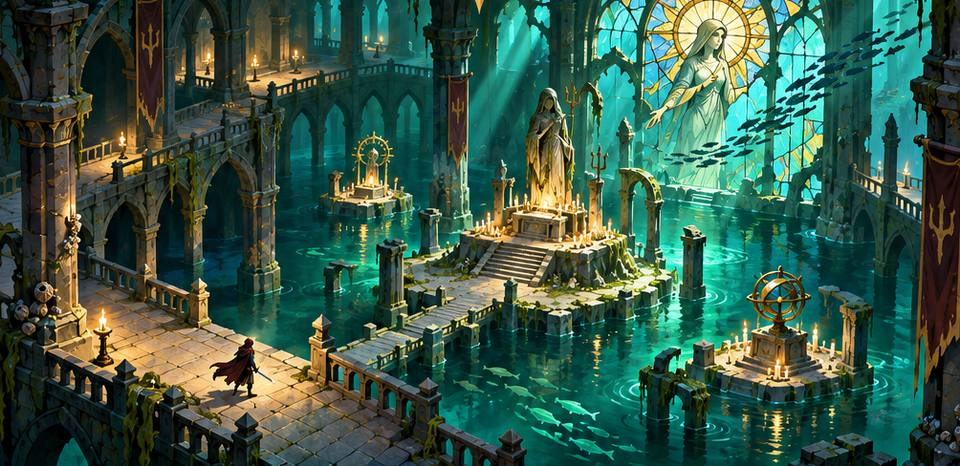
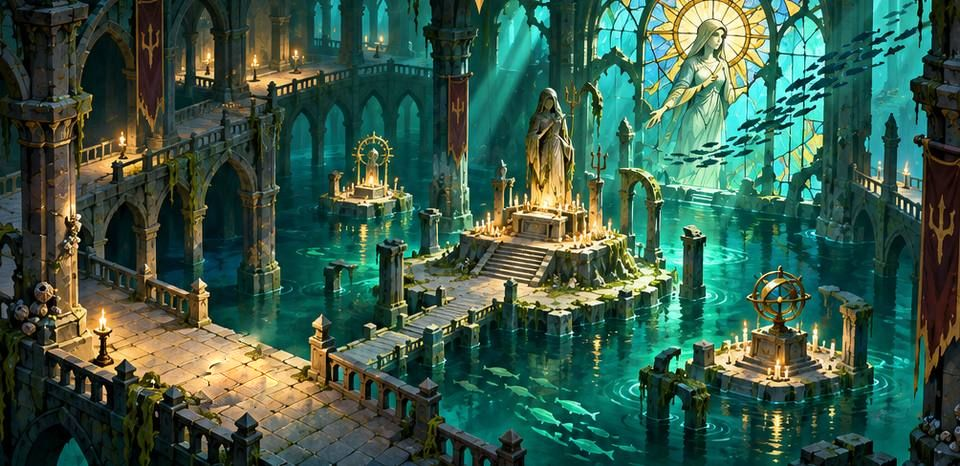
Capítulos 4 e 5: cavaleiro removido dos fundos, Mariposa redesenhada e golpes novos
- Fundos do Jardim e da Catedral sem o cavaleiro pintado
- Mariposa do Eclipse: asas recortadas com crescentes dourados, lua crescente atrás, chifre de lua
- Mariposa ganha a Revoada: mariposas pequenas que perseguem o herói
- Jardineiro de Órbita: Canteiro (anel de flores com uma saída), Sementes (flores lançadas) e Órbita (pedras em espiral)
- Coroinha de Cracas: Salto do Sino (cai em cima de você), Badalada (três ondas) e Cracas (leques de tiros)
- Lebre solta as pedras em órbita ao parar; Caracol alterna anel de maré e espiral de conchas

Claude-Session: https://claude.ai/code/session_01CUuYPkg2eoYMEA6KGEoqju

Changed region(s): [[0.1875, 0.721, 0.3125, 0.8712]]

diff --git a/index.html b/index.html
@@ -820,12 +820,12 @@ Object.assign(ENEMIES,{
   cardume:{n:'Cardume de Velas',cat:'Comum',type:'organico',hp:42,spd:122,dmg:8,r:10,xp:6,coin:2,col:'#ffcf7a',ai:'school',ch:4,desc:'Peixes com chama na cabeça que nadam em bando, em ondas. Fracos sozinhos: ataques em área limpam o cardume.'}
 });
 SKIN_NAMES.push({rast:'Broto Lunar',sent:'Lírio Arqueiro',pulsar:'Semente Estelar',espec:'Pétala Fantasma'},{rast:'Cracudo',sent:'Gárgula Afogada',pulsar:'Bolha de Maré',espec:'Coroinha Afogado'});
-MINIS.push({n:'Jardineiro de Órbita',type:'blindado',col:'#d8c9a8',mx:'bloom'},{n:'Coroinha de Cracas',type:'blindado',col:'#c9a25a',mx:'bell'});
+MINIS.push({n:'Jardineiro de Órbita',type:'blindado',col:'#d8c9a8',ai:'gardener'},{n:'Coroinha de Cracas',type:'blindado',col:'#c9a25a',ai:'bellboy'});
 Object.assign(BOSSES,{
   mariposa:{name:'Mariposa do Eclipse',type:'espectral',hp:6400,r:34,spd:58,col:'#b48cff',col2:'#ffe9b0',contact:18,
-    phases:[{seq:['luas','burst','ring'],gap:2.1},{seq:['po','luas','spiral','summon'],gap:1.8},{seq:['luas','po','pull','ring'],gap:1.55}],
+    phases:[{seq:['luas','revoada','ring'],gap:2.1},{seq:['po','luas','revoada','summon'],gap:1.8},{seq:['luas','po','revoada','pull'],gap:1.55}],
     desc:'Guardiã do Jardim da Lua Oca. As asas são feitas da própria lua rachada: ela faz chover cacos de lua e espalha pó de escamas pelo chão.',
-    tips:'Os círculos claros marcam onde os cacos caem, em sequência. Saia das nuvens de pó. Depois da chuva de luas ela pousa e fica exposta.'},
+    tips:'Os círculos claros marcam onde os cacos caem, em sequência. As mariposas pequenas seguem você: corra em curva ou use a guarda. Depois da chuva de luas ela pousa e fica exposta.'},
   viuva:{name:'Viúva da Âncora',type:'blindado',hp:7400,r:34,spd:52,col:'#7fd8c0',col2:'#d9c27a',contact:20,
     phases:[{seq:['ancora','burst','ring'],gap:2.2},{seq:['mare','ancora','spiral'],gap:1.9},{seq:['ancora','mare','pull','summon'],gap:1.6}],
     desc:'Estátua viva da Catedral das Marés, presa a uma âncora enorme. Lança a âncora, arrasta de volta pela corrente e chama ondas que varrem a nave.',
@@ -1672,22 +1672,42 @@ function rigCoroinha(){
   return{root,k:1.7,pose(e,t){const r=this.root,sl=e.st==='slam'||e.tele>0;r.legs.forEach((l,i)=>l.r[0]=Math.sin(e.ph*3+i)*.4*e.v);r.bell.t[1]=1.55+(sl?.15:0);r.body.t[1]=.45+Math.abs(Math.sin(e.ph*3))*.04*e.v}}
 }
 /* --- Mariposa do Eclipse (chefe) --- */
+function mPoly(key,pts,z=0){return MESH[key]||finish(key,pts.map(([x,y])=>[x,y,z]),[pts.map((_,i)=>i)],false,true)}
+const MOTH={
+  up:[[0,0],[.3,.32],[.72,.72],[1.18,.98],[1.5,.92],[1.56,.66],[1.38,.36],[1.02,.1],[.55,-.06]],
+  lo:[[0,0],[.5,-.08],[.92,-.3],[1.02,-.6],[.82,-.86],[.62,-1.22],[.44,-.88],[.16,-.4]],
+  cres:(n,R,r,dx)=>{const o=[];for(let i=0;i<=n;i++){const a=Math.PI*.35+i/n*Math.PI*1.3;o.push([Math.cos(a)*R,Math.sin(a)*R])}for(let i=n;i>=0;i--){const a=Math.PI*.35+i/n*Math.PI*1.3;o.push([dx+Math.cos(a)*r,Math.sin(a)*r])}return o}
+};
 function rigMariposa(){
-  const root=node([0,1.15,0]);
-  const moon=node([0,.45,-.75]);moon.parts.push(P3(mSph(12,9),'#efe4cc',[0,0,0],null,[.85,.85,.85],em({gr:.4})));
-  for(let i=0;i<6;i++){const q=i*1.1;moon.parts.push(P3(mSph(6,4),'#c9bca2',[Math.cos(q)*.45,Math.sin(q)*.45,.62],null,[.16,.16,.06]))}
+  const root=node([0,1.2,0]);
+  const sc=(P,k,ox=0,oy=0,mx=1)=>P.map(([x,y])=>[(x*k+ox)*mx,y*k+oy]);
+  // lua crescente atrás
+  const moon=node([0,.55,-.45]);moon.parts.push(P3(mPoly('mcres',MOTH.cres(14,1.25,1.02,.42)),'#f3e7c8',[0,0,0],null,null,em({gr:.4})));
+  for(const[x,y,r]of[[-.95,.3,.12],[-1.05,-.2,.09],[-.7,.75,.08],[-.75,-.65,.1]])moon.parts.push(P3(mSph(6,4),'#d8caa6',[x,y,.04],null,[r,r,.02]));
   root.kids.push(moon);
-  root.wings=[];for(const sd of[-1,1]){const w=node([sd*.12,.2,0]);
-    w.parts.push(P3(mSph(8,5),'#5a2f8a',[sd*.85,.3,0],[0,0,sd*.35],[.85,.62,.05]),P3(mSph(7,5),'#8a5ac8',[sd*.82,.34,.03],[0,0,sd*.35],[.58,.4,.03]),
-      P3(mSph(6,4),'#3a1f5c',[sd*.6,-.4,0],[0,0,-sd*.4],[.5,.4,.04]),P3(mSph(5,4),'#ffe9b0',[sd*1.0,.42,.06],null,[.14,.14,.02],em({gr:.16})),P3(mSph(5,4),'#ffe9b0',[sd*.62,-.42,.05],null,[.09,.09,.02],em({gr:.1})));
-    root.kids.push(w);root.wings.push(w)}
-  root.parts.push(P3(mSph(8,6),'#2a1a3a',[0,.1,0],null,[.16,.3,.16]),P3(mSph(7,5),'#3a2450',[0,-.28,0],null,[.13,.26,.13]));
-  for(let i=0;i<4;i++)root.parts.push(P3(mCyl(8),'#ffe9b0',[0,-.15-i*.1,0],null,[.135,.015,.135],em({gr:.03})));
-  const head=node([0,.45,.04]);head.parts.push(P3(mSph(7,5),'#e6d8ff',[0,0,0],null,[.13,.12,.12]));
-  for(const sd of[-1,1]){head.parts.push(P3(mSph(5,4),'#fff2b0',[sd*.06,.01,.1],null,[.04,.04,.02],em({gr:.12})));const an=node([sd*.05,.1,0]);an.r=[-.3,0,sd*.5];an.parts.push(P3(mTc(1,.3,4),'#d9c8ff',[0,0,0],null,[.015,.38,.015]),P3(mSph(4,3),'#fff2b0',[0,.38,0],null,[.03,.03,.03],em({gr:.08})));head.kids.push(an)}
-  const halo=node([0,.2,-.02],[],[],{spin:{ax:2,w:.6}});for(let i=0;i<9;i++){const q=Math.PI*.15+i/8*Math.PI*.7;halo.parts.push(P3(mBox(),'#ffe9b0',[Math.cos(q)*.2,Math.sin(q)*.2,0],[0,0,q+Math.PI/2],[.08,.025,.02],em({gr:.06})))}head.kids.push(halo);
-  root.kids.push(head);root.head=head;
-  return{root,k:1.6,pose(e,t){const r=this.root,f=Math.sin(t*3.2)*.35+(e.tele>0?.3:0);r.wings.forEach((w,i)=>{w.r[1]=(i?-1:1)*f;w.r[2]=(i?1:-1)*f*.25});r.t[1]=1.15+Math.sin(t*1.6)*.1;r.head.r[1]=Math.sin(t*.7)*.25}}
+  const wg=node([0,.2,0]);wg.r=[-.45,0,0];root.kids.push(wg);
+  root.wings=[];
+  for(const sd of[-1,1]){const w=node([sd*.08,0,0]);const M=sd<0?'L':'R';
+    w.parts.push(
+      P3(mPoly('mu'+M,sc(MOTH.up,1,0,0,sd)),'#3b1f63',[0,0,0]),
+      P3(mPoly('mu2'+M,sc(MOTH.up,.68,.18,.1,sd)),'#7a55c0',[0,0,.05]),
+      P3(mPoly('mu3'+M,sc(MOTH.up,.34,.5,.28,sd)),'#c9b0ff',[0,0,.09],null,null,em({gr:.05})),
+      P3(mPoly('ml'+M,sc(MOTH.lo,1,0,0,sd)),'#4a2a78',[0,0,-.01]),
+      P3(mPoly('ml2'+M,sc(MOTH.lo,.6,.14,-.12,sd)),'#9a7ad8',[0,0,.05]));
+    // crescentes dourados nas asas
+    w.parts.push(P3(mPoly('mc1'+M,MOTH.cres(8,.16,.12,.06).map(([x,y])=>[x*sd,y])),'#ffd98a',[sd*1.08,.66,.05],null,null,em({gr:.14})),
+      P3(mPoly('mc2'+M,MOTH.cres(8,.11,.08,.04).map(([x,y])=>[x*sd,y])),'#ffd98a',[sd*.62,-.6,.04],null,null,em({gr:.1})));
+    w.s=[1.25,1.25,1.25];
+    wg.kids.push(w);root.wings.push(w)}
+  // corpo peludo
+  root.parts.push(P3(mSph(8,6,.15),'#ece2ff',[0,.32,.06],null,[.2,.24,.18]),P3(mSph(7,5,.1),'#d9c8f5',[0,.2,.12],null,[.24,.1,.12]));
+  for(let i=0;i<5;i++)root.parts.push(P3(mSph(7,5),i%2?'#5a3a8a':'#e6d8ff',[0,.02-i*.13,.04],null,[.15-i*.018,.08,.13-i*.015]));
+  const head=node([0,.6,.12]);head.parts.push(P3(mSph(7,5),'#f3ecff',[0,0,0],null,[.13,.12,.12]));
+  for(const sd of[-1,1]){head.parts.push(P3(mSph(5,4),'#ffe9b0',[sd*.065,.01,.09],null,[.045,.05,.03],em({gr:.16})));
+    const an=node([sd*.05,.1,0]);an.r=[-.2,0,sd*.6];an.parts.push(P3(mTc(1,.3,4),'#e8d6a8',[0,0,0],null,[.015,.42,.015]));for(let k=1;k<5;k++)an.parts.push(P3(mBox(),'#e8d6a8',[sd*.03,k*.08,0],[0,0,sd*.8],[.07,.01,.01]));head.kids.push(an)}
+  head.parts.push(P3(mPoly('mhorn',MOTH.cres(10,.24,.19,.08).map(([x,y])=>[y,-x])),'#ffd98a',[0,.2,-.02],null,null,em({gr:.18})));
+  root.kids.push(head);root.head=head;root.wg=wg;
+  return{root,k:1.55,pose(e,t){const r=this.root,f=.35+Math.sin(t*3.4)*.32+(e.tele>0?.25:0);r.wings.forEach((w,i)=>{const sd=i?1:-1;w.r[1]=-sd*f;w.r[2]=sd*Math.sin(t*3.4)*.06});r.t[1]=1.2+Math.sin(t*1.6)*.1;r.head.r[1]=Math.sin(t*.7)*.2}}
 }
 /* --- Viúva da Âncora (chefe) --- */
 function rigViuva(){
@@ -2111,7 +2131,7 @@ const Arena=(()=>{
       const e={key,th:CHAPTERS.findIndex(c=>c.boss===key),boss:true,name:B.name,type:B.type,col:B.col,col2:B.col2,x:W/2,y:M+125,r:B.r,spd:B.spd,dmg:B.contact,phase:0,ai:'boss',B:BB,xp:300,coin:60,cry:B.hp>1600?4:3};
       e.maxHp=e.hp=B.hp*S.hpS;S.en.push(initE(e));S.bossE=e;hud.hBoss.hidden=false;hud.hBossN.textContent=B.name;Snd.play('boss');AUD.voice('v_final',1200,B.name);if(S.mode==='camp')cineStart(e);return}
     if(kind==='mini'){const m=MINIS[S.mode==='endless'?endTh():S.ch];
-      const e={key:'mini',mini:true,mx:m.mx,th:S.mode==='endless'?endTh():S.ch,name:m.n,type:m.type,col:m.col,x,y,r:26,spd:62,dmg:20,ai:'brute',xp:140,coin:30,cry:2};e.maxHp=e.hp=520*S.hpS;S.en.push(initE(e));return}
+      const e={key:'mini',mini:true,th:S.mode==='endless'?endTh():S.ch,name:m.n,type:m.type,col:m.col,x,y,r:26,spd:62,dmg:20,ai:m.ai||'brute',xp:140,coin:30,cry:2};e.maxHp=e.hp=520*S.hpS;S.en.push(initE(e));return}
     const d=ENEMIES[kind],th=S.mode==='endless'?endTh():S.ch;const e={key:kind,th,name:(SKIN_NAMES[th]||{})[kind]||d.n,type:d.type,col:d.col,x,y,r:d.r,spd:d.spd,dmg:d.dmg,ai:d.ai,xp:d.xp,coin:d.coin};
     e.maxHp=e.hp=d.hp*S.hpS;S.en.push(initE(e));xInit(e);parts.burst(x,y,d.col,8,90,3,.4);
   }
@@ -2444,7 +2464,7 @@ const Arena=(()=>{
     }}
 
   /* ---------- IA ---------- */
-  const eBullet=(x,y,a,spd,dmg,col,o={})=>{S.eb.push({x,y,vx:Math.cos(a)*spd,vy:Math.sin(a)*spd,r:o.r||6,dmg:dmg*S.dmgS,col,life:o.life||6,shape:'orb'})};
+  const eBullet=(x,y,a,spd,dmg,col,o={})=>{S.eb.push({x,y,vx:Math.cos(a)*spd,vy:Math.sin(a)*spd,r:o.r||6,dmg:dmg*S.dmgS,col,life:o.life||6,shape:o.shape||'orb',home:o.home||0})};
   function ringAttack(x,y,n,spd,dmg,col,off){for(let i=0;i<n;i++)eBullet(x,y,off+i*TAU/n,spd,dmg,col)}
   function moveE(e,tx,ty,spd,dt){
     const m=e.stunT>0?0:(e.slowT>0?.55:1),d=Math.hypot(tx-e.x,ty-e.y)||1;
@@ -2491,6 +2511,8 @@ const Arena=(()=>{
       case 'trail':trailAI(e,dt,d);break;
       case 'swoop':swoopAI(e,dt,d);break;
       case 'school':schoolAI(e,dt,d);break;
+      case 'gardener':gardenerAI(e,dt,d);break;
+      case 'bellboy':bellboyAI(e,dt,d);break;
     }
     // separação
     for(const o of S.en){if(o===e||o.dead)continue;const dx=e.x-o.x,dy=e.y-o.y,dd=Math.hypot(dx,dy),mn=e.r+o.r;if(dd<mn&&dd>.1){const k=(mn-dd)/2/dd;e.x+=dx*k*.5;e.y+=dy*k*.5}}
@@ -2506,12 +2528,12 @@ const Arena=(()=>{
       if(e.cdA<=0&&d<380){e.st='aim';e.stT=0;e.ca=ang(e,p);e.dl=Math.min(rayLen(e.x,e.y,e.ca,Math.max(240,d+90),e.r),420);S.tele.push({kind:'l',x:e.x,y:e.y,a:e.ca,len:e.dl,w:e.r*2,t:.6,max:.6,col:'#d8c4ff'});e.tele=.6}}
     else if(e.st==='aim'){if(e.stT>=.6){e.st='dash';e.stT=0;e.d0={x:e.x,y:e.y};AUD.vary('glass',{vol:.22,rate:1.6})}}
     else if(e.st==='dash'){const sp=640,k=Math.min(1,e.stT*sp/e.dl);e.x=e.d0.x+Math.cos(e.ca)*e.dl*k;e.y=e.d0.y+Math.sin(e.ca)*e.dl*k;if(Math.random()<.6)parts.burst(e.x,e.y,'#d8c4ff',1,40,3,.3);
-      if(dst(e,p)<e.r+p.r&&e.hitCd<=0&&hurtPlayer(e.dmg*1.3*S.dmgS,{kb:e.ca}))e.hitCd=.8;if(k>=1){e.st='rest';e.stT=0;e.expose=1}}
+      if(dst(e,p)<e.r+p.r&&e.hitCd<=0&&hurtPlayer(e.dmg*1.3*S.dmgS,{kb:e.ca}))e.hitCd=.8;if(k>=1){e.st='rest';e.stT=0;e.expose=1;for(let q=0;q<4;q++)eBullet(e.x,e.y,q*TAU/4+e.ca+Math.PI/4,170,8,'#b9a8d8',{r:5,life:1.6});parts.burst(e.x,e.y,'#d8c4ff',10,140,3,.4)}}
     else if(e.st==='rest'){if(e.stT>.9){e.st='move';e.stT=0;e.cdA=rnd(1.6,2.6)}}}
   function trailAI(e,dt,d){const p=S.p;moveE(e,p.x,p.y,e.spd,dt);e.trT=(e.trT||0)-dt;
     if(e.trT<=0){e.trT=.28;hz({type:'slime',x:e.x+rnd(-4,4),y:e.y+e.r*.4,r:17,life:4.5,dmg:3*S.dmgS,tick:0,own:e})}
-    e.cdA-=dt;if(e.cdA<=0&&d<420){e.cdA=rnd(4,5.2);e.tele=.7;S.tele.push({kind:'c',x:e.x,y:e.y,r:e.r+16,t:.7,max:.7,col:'#b493e8'});
-      later(.7,()=>{if(e.dead)return;S.rings.push({x:e.x,y:e.y,r:20,max:230,spd:240,w:12,dmg:e.dmg*S.dmgS,col:'#b493e8',hit:false});AUD.play('slime',{vol:.5})})}}
+    e.cdA-=dt;if(e.cdA<=0&&d<420){e.cdA=rnd(3.2,4.2);e.tele=.7;S.tele.push({kind:'c',x:e.x,y:e.y,r:e.r+16,t:.7,max:.7,col:'#b493e8'});
+      later(.7,()=>{if(e.dead)return;e.cyc=(e.cyc||0)+1;if(e.cyc%2){S.rings.push({x:e.x,y:e.y,r:20,max:230,spd:240,w:12,dmg:e.dmg*S.dmgS,col:'#b493e8',hit:false});AUD.play('slime',{vol:.5})}else{const o=rnd(0,TAU);for(let q=0;q<10;q++)later(q*.07,()=>{if(!e.dead)eBullet(e.x,e.y,o+q*.63,150,9,'#d9c8a8',{r:5,life:2.4})})}})}}
   function swoopAI(e,dt,d){const p=S.p;e.stT+=dt;
     if(e.st==='move'){e.oa=(e.oa??ang(p,e))+(e.seed>5?1:-1)*.8*dt;const R=200;moveE(e,p.x+Math.cos(e.oa)*R,p.y+Math.sin(e.oa)*R*.8,e.spd,dt);e.cdA-=dt;
       if(e.cdA<=0&&d<420){e.st='aim';e.stT=0;e.ca=ang(e,p);e.dl=Math.min(rayLen(e.x,e.y,e.ca,d+170,e.r),460);S.tele.push({kind:'l',x:e.x,y:e.y,a:e.ca,len:e.dl,w:e.r*2.4,t:.7,max:.7,col:'#6fc8ff'});e.tele=.7}}
@@ -2521,10 +2543,23 @@ const Arena=(()=>{
       if(dst(e,p)<e.r+p.r&&e.hitCd<=0&&hurtPlayer(e.dmg*1.2*S.dmgS,{kb:e.ca}))e.hitCd=.8;if(k>=1){e.st='rest';e.stT=0;e.expose=.8;e.oa=ang(p,e)}}
     else if(e.st==='rest'){if(e.stT>.6){e.st='move';e.stT=0;e.cdA=rnd(2,3)}}}
   function schoolAI(e,dt,d){const p=S.p,a=ang(e,p),w=Math.sin(S.t*3+e.seed*2)*70;moveE(e,p.x-Math.sin(a)*w,p.y+Math.cos(a)*w,e.spd,dt)}
-  /* extras dos mini chefes novos */
-  function miniExtra(e){const p=S.p;
-    if(e.mx==='bloom'){e.tele=.6;const n=S.diff>=2?4:3;for(let i=0;i<n;i++){const[x,y]=inArena(p.x+(i?rnd(-110,110):0),p.y+(i?rnd(-90,90):0));hz({type:'bloom',x,y,r:42,warn:1.2,dmg:16*S.dmgS,own:e})}}
-    else if(e.mx==='bell'){e.tele=.7;S.tele.push({kind:'c',x:e.x,y:e.y,r:e.r+30,t:.7,max:.7,col:'#d9b04a'});for(let i=0;i<2;i++)later(.7+i*.5,()=>{if(e.dead)return;S.rings.push({x:e.x,y:e.y,r:20,max:260,spd:300,w:12,dmg:e.dmg*S.dmgS,col:'#d9b04a',hit:false});SFX.bell(i);shake(4)})}}
+  /* mini chefes novos: três golpes cada, em rodízio */
+  function gardenerAI(e,dt,d){const p=S.p;e.stT+=dt;
+    if(e.st==='move'){if(d>150)moveE(e,p.x,p.y,e.spd*.8,dt);e.cdA-=dt;if(e.cdA<=0){e.cyc=(e.cyc||0)+1;e.st='slam';e.stT=0;e.tele=.6;const k=e.cyc%3;
+      if(k===1){floater(e.x,e.y-e.r-30,'CANTEIRO','#d8a0ff');const n=7,gap=Math.floor(rnd(0,n)),o=rnd(0,TAU);for(let i=0;i<n;i++){if(i===gap)continue;const q=o+i*TAU/n,[x,y]=inArena(p.x+Math.cos(q)*90,p.y+Math.sin(q)*90);hz({type:'bloom',x,y,r:36,warn:1.4,dmg:16*S.dmgS,own:e})}}
+      else if(k===2){floater(e.x,e.y-e.r-30,'SEMENTES','#ffe08a');const a0=ang(e,p);for(let i=0;i<5;i++){const a=a0+(i-2)*.3,L=Math.min(260,d+rnd(-30,60)),[x,y]=inArena(e.x+Math.cos(a)*L,e.y+Math.sin(a)*L);eBullet(e.x,e.y,a,L/.9,6,'#ffe08a',{r:5,life:.9});hz({type:'bloom',x,y,r:40,warn:1.1,dmg:16*S.dmgS,own:e})}}
+      else{floater(e.x,e.y-e.r-30,'ÓRBITA','#d9cfbe');e.st='spin';const o=rnd(0,TAU);for(let w=0;w<3;w++)later(w*.35,()=>{if(e.dead)return;for(let i=0;i<8;i++)eBullet(e.x,e.y,o+w*.2+i*TAU/8,130,10,'#d9cfbe',{r:7,life:3})});S.rings.push({x:e.x,y:e.y,r:20,max:200,spd:280,w:12,dmg:e.dmg*S.dmgS,col:'#d8c9a8',hit:false})}}}
+    else if(e.st==='slam'||e.st==='spin'){if(e.stT>1.1){e.st='move';e.stT=0;e.cdA=rnd(1.6,2.2)}}}
+  function bellboyAI(e,dt,d){const p=S.p;e.stT+=dt;
+    if(e.st==='move'){moveE(e,p.x,p.y,e.spd,dt);e.cdA-=dt;if(e.cdA<=0){e.cyc=(e.cyc||0)+1;const k=e.cyc%3;
+      if(k===1){floater(e.x,e.y-e.r-30,'SALTO DO SINO','#d9b04a');const[tx,ty]=inArena(p.x,p.y);e.hop={x0:e.x,y0:e.y,x:tx,y:ty};S.tele.push({kind:'c',x:tx,y:ty,r:70,t:.9,max:.9,col:'#d9b04a'});e.st='crouch';e.stT=0;e.tele=.9}
+      else if(k===2){floater(e.x,e.y-e.r-30,'BADALADA','#d9b04a');e.st='slam';e.stT=0;e.tele=.7;S.tele.push({kind:'c',x:e.x,y:e.y,r:e.r+30,t:.7,max:.7,col:'#d9b04a'});for(let i=0;i<3;i++)later(.7+i*.45,()=>{if(e.dead)return;S.rings.push({x:e.x,y:e.y,r:20,max:280,spd:300,w:12,dmg:e.dmg*S.dmgS,col:'#d9b04a',hit:false});SFX.bell(i);shake(4)})}
+      else{floater(e.x,e.y-e.r-30,'CRACAS','#e6dcc8');e.st='slam';e.stT=0;for(let w=0;w<3;w++)later(.3+w*.3,()=>{if(e.dead)return;const a=ang(e,S.p);for(let i=0;i<5;i++)eBullet(e.x,e.y,a+(i-2)*.22,240,10,'#e6dcc8',{r:6})})}}}
+    else if(e.st==='crouch'){if(e.stT>=.9){e.st='air';e.stT=0}}
+    else if(e.st==='air'){const k=Math.min(1,e.stT/.6),h=e.hop;e.x=h.x0+(h.x-h.x0)*k;e.y=h.y0+(h.y-h.y0)*k;e.jz=Math.sin(Math.PI*k)*90;
+      if(k>=1){e.jz=0;e.st='slam';e.stT=0;e.expose=1.2;shake(8);SFX.bell(0);S.expl.push({x:h.x,y:h.y,r:76,t:.3,max:.3,col:'#d9b04a',e:true});S.rings.push({x:h.x,y:h.y,r:20,max:220,spd:300,w:12,dmg:e.dmg*S.dmgS,col:'#d9b04a',hit:false});
+        if(p.z<=10&&Math.hypot(p.x-h.x,p.y-h.y)<70+p.r*.5)hurtPlayer(e.dmg*1.3*S.dmgS,{ground:true,kb:ang(h,p)})}}
+    else if(e.st==='slam'){if(e.stT>1.6){e.st='move';e.stT=0;e.cdA=rnd(1.4,2)}}}
   /* ataques dos chefes novos */
   const ATK2={
     luas(b,ph){const n=ph>=2?8:ph?6:4;b.act=n*.32+1.3;SFX.bell(2);
@@ -2533,6 +2568,7 @@ const Arena=(()=>{
           if(S.p.z<=10&&Math.hypot(S.p.x-x,S.p.y-y)<46+S.p.r*.5)hurtPlayer(20*S.dmgS,{ground:true,kb:Math.atan2(S.p.y-y,S.p.x-x)});
           if(ph>=1)for(let k=0;k<4;k++)eBullet(x,y,k*TAU/4+.4,150,9,'#d8c4ff',{r:4,life:2})})});
       later(n*.32+1,()=>{if(!b.dead){b.expose=1.6;floater(b.x,b.y-b.r-26,'ELA POUSOU','#ffe14a')}})},
+    revoada(b,ph){const n=ph>=2?10:7;b.act=2.2;SFX.bell(1);for(let i=0;i<n;i++)later(i*.12,()=>{if(b.dead)return;const a=ang(b,S.p)+(i-(n-1)/2)*.32;eBullet(b.x,b.y,a,125,10,'#ffe9b0',{r:7,life:5,shape:'moth',home:1.6})})},
     po(b,ph){b.act=1.4;const n=ph>=2?4:3;for(let i=0;i<n;i++){const[x,y]=inArena(S.p.x+(i?rnd(-150,150):0),S.p.y+(i?rnd(-120,120):0));hz({type:'dust',x,y,r:72,warn:.8,live:4.2,dmg:5*S.dmgS,tick:0,own:b})}
       for(let k=0;k<3;k++)later(k*.2,()=>{if(!b.dead)parts.burst(b.x,b.y,'#b48cff',10,180,3,.6)})},
     ancora(b,ph){const n=ph>=1?2:1;b.act=3.4;
@@ -2572,7 +2608,7 @@ const Arena=(()=>{
     else return false;return true}
   function bruteAI(e,dt,d){
     const p=S.p;
-    if(e.st==='move'){moveE(e,p.x,p.y,e.spd,dt);e.stT+=dt;if(e.mx){e.mxT=(e.mxT??2.2)-dt;if(e.mxT<=0){e.mxT=4.2;miniExtra(e)}}if(e.stT>3.2){e.st='tele';e.stT=0;e.tele=.7;e.cx=p.x;e.cy=p.y}}
+    if(e.st==='move'){moveE(e,p.x,p.y,e.spd,dt);e.stT+=dt;if(0){}if(e.stT>3.2){e.st='tele';e.stT=0;e.tele=.7;e.cx=p.x;e.cy=p.y}}
     else if(e.st==='tele'){e.stT+=dt;if(e.stT>.7){e.st='charge';e.stT=0;const a=Math.atan2(e.cy-e.y,e.cx-e.x);e.cvx=Math.cos(a)*470;e.cvy=Math.sin(a)*470;e.chargeT=1}}
     else if(e.st==='charge'){e.stT+=dt;e.x+=e.cvx*dt;e.y+=e.cvy*dt;if(dst(e,p)<e.r+p.r&&e.hitCd<=0){if(hurtPlayer(e.dmg*1.4*S.dmgS,{kb:ang(e,p)}))e.hitCd=1}
       if(e.stT>.5||e.x<=M+e.r||e.x>=W-M-e.r||e.y<=M+e.r||e.y>=H-M-e.r){e.chargeT=0;e.st='slam';e.stT=0;e.tele=.5}}
@@ -2713,6 +2749,7 @@ const Arena=(()=>{
     }
     S.pb=S.pb.filter(b=>!b.dead);
     for(const b of S.eb){
+      if(b.home){const sp=Math.hypot(b.vx,b.vy),a=Math.atan2(b.vy,b.vx),ta=Math.atan2(p.y-b.y,p.x-b.x),da=Math.atan2(Math.sin(ta-a),Math.cos(ta-a)),na=a+clamp(da,-b.home*dt,b.home*dt);b.vx=Math.cos(na)*sp;b.vy=Math.sin(na)*sp}
       b.x+=b.vx*dt;b.y+=b.vy*dt;b.life-=dt;
       if(b.life<=0||b.x<-20||b.x>W+20||b.y<-20||b.y>H+20)b.dead=true;
       else if(S.walls.length&&wallHit(b.x,b.y,b.r))b.dead=true;
@@ -2780,7 +2817,7 @@ const Arena=(()=>{
     for(const e of S.expl){const k=1-e.t/e.max;c.fillStyle=hexA(e.col,.35*(1-k));c.beginPath();c.arc(e.x,e.y,e.r*(.5+.5*k),0,TAU);c.fill();c.strokeStyle=hexA('#ffffff',.6*(1-k));c.lineWidth=3;c.beginPath();c.arc(e.x,e.y,e.r*k,0,TAU);c.stroke()}
     for(const s of S.slashes){const k=1-s.t/s.max;c.save();c.translate(s.x,s.y);c.rotate(s.a);c.strokeStyle=hexA(s.col,.9*(1-k));c.lineWidth=14*(1-k*.6);c.beginPath();c.arc(0,0,s.r*(.6+.4*k),-s.arc/2,s.arc/2);c.stroke();c.strokeStyle=hexA(s.col2,.9*(1-k));c.lineWidth=4;c.stroke();c.restore()}
     for(const b of S.pb)drawShot(c,b,t);
-    for(const b of S.eb){const gr=c.createRadialGradient(b.x,b.y,0,b.x,b.y,b.r*2.6);gr.addColorStop(0,hexA(b.col,.55));gr.addColorStop(1,hexA(b.col,0));c.fillStyle=gr;c.beginPath();c.arc(b.x,b.y,b.r*2.6,0,TAU);c.fill();c.fillStyle='#10121f';c.strokeStyle=b.col;c.lineWidth=2.5;c.beginPath();c.arc(b.x,b.y,b.r,0,TAU);c.fill();c.stroke()}
+    for(const b of S.eb){if(b.shape==='moth'){const f=Math.sin(t*22+b.x*.1)*.6+.8,a=Math.atan2(b.vy,b.vx);c.save();c.translate(b.x,b.y);c.rotate(a+Math.PI/2);glowDot(c,0,0,b.r*2.4,'#ffe9b0',.35);c.fillStyle='#6a42b0';for(const sd of[-1,1]){c.beginPath();c.ellipse(sd*b.r*.9*f,-1,b.r*f,b.r*.7,sd*.5,0,TAU);c.fill()}c.fillStyle='#ffe9b0';c.beginPath();c.ellipse(0,0,2,b.r*.8,0,0,TAU);c.fill();c.restore();continue}const gr=c.createRadialGradient(b.x,b.y,0,b.x,b.y,b.r*2.6);gr.addColorStop(0,hexA(b.col,.55));gr.addColorStop(1,hexA(b.col,0));c.fillStyle=gr;c.beginPath();c.arc(b.x,b.y,b.r*2.6,0,TAU);c.fill();c.fillStyle='#10121f';c.strokeStyle=b.col;c.lineWidth=2.5;c.beginPath();c.arc(b.x,b.y,b.r,0,TAU);c.fill();c.stroke()}
     for(const b of S.beams){
       if(b.pl){const k=b.t/b.max;c.save();c.translate(b.x,b.y);c.rotate(b.a);c.fillStyle=hexA(b.col,.5*k);c.fillRect(0,-b.w*k,b.len,b.w*2*k);c.fillStyle=hexA('#ffffff',.9*k);c.fillRect(0,-b.w*.18*k,b.len,b.w*.36*k);c.restore()}
       else{c.save();c.translate(b.x,b.y);c.rotate(b.a);if(b.warn>0){c.strokeStyle=hexA(b.col,.7);c.lineWidth=2;c.setLineDash([10,8]);c.beginPath();c.moveTo(0,0);c.lineTo(b.len,0);c.stroke();c.setLineDash([])}
@@ -3196,7 +3233,7 @@ function rMap(){
 /* ---------- Chefes e bestiário ---------- */
 function bestPowers(type){return POWERS.map(p=>[p,MULT[type][p.tag]||1]).sort((a,b)=>b[1]-a[1]).slice(0,3).filter(x=>x[1]>1)}
 function rBoss(){
-  const atkName={burst:'Rajada mirada',ring:'Anel de projéteis',spiral:'Espiral dupla',charge:'Investida',slam:'Onda de choque (pule)',summon:'Invocação',teleport:'Teletransporte',pull:'Vórtice de atração',laser:'Feixes giratórios',grelhas:'Grelhas em brasa',raizes:'Corredor de raízes',eclipse:'Valsa da penumbra',luas:'Chuva de cacos de lua',po:'Pó de escamas',ancora:'Âncora arrastada',mare:'Onda da nave (ache a brecha)'};
+  const atkName={burst:'Rajada mirada',ring:'Anel de projéteis',spiral:'Espiral dupla',charge:'Investida',slam:'Onda de choque (pule)',summon:'Invocação',teleport:'Teletransporte',pull:'Vórtice de atração',laser:'Feixes giratórios',grelhas:'Grelhas em brasa',raizes:'Corredor de raízes',eclipse:'Valsa da penumbra',luas:'Chuva de cacos de lua',revoada:'Revoada de mariposas (seguem você)',po:'Pó de escamas',ancora:'Âncora arrastada',mare:'Onda da nave (ache a brecha)'};
   const bs=Object.entries(BOSSES).map(([k,B],i)=>`<div class="panel list"><div class="row" style="justify-content:space-between;align-items:center"><div><span class="lab-tag">Chefe do capítulo ${i+1}</span><h3 style="font-size:1.25rem;color:${B.col}">${B.name}</h3></div><span class="tag ${SAVE.cleared[i]?'good':''}">${SAVE.cleared[i]?'Derrotado':TYPE_NAMES[B.type]}</span></div>
     <p>${B.desc}</p><p class="mut">Dica: ${B.tips}</p>
     <div class="list" style="gap:4px">${B.phases.map((ph,j)=>`<div><b style="font-family:var(--fd)">Fase ${j+1}</b> <span class="mut">${ph.seq.map(a=>atkName[a]).join(' → ')}</span></div>`).join('')}</div>
